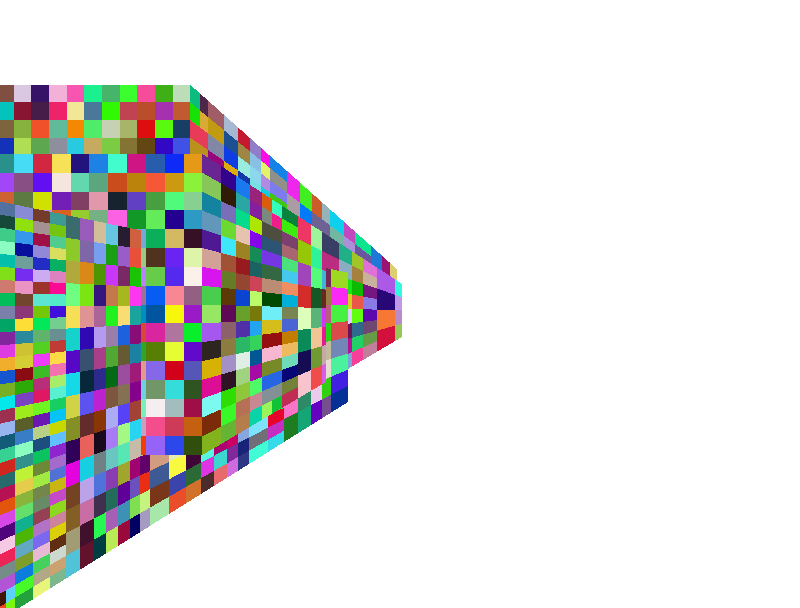
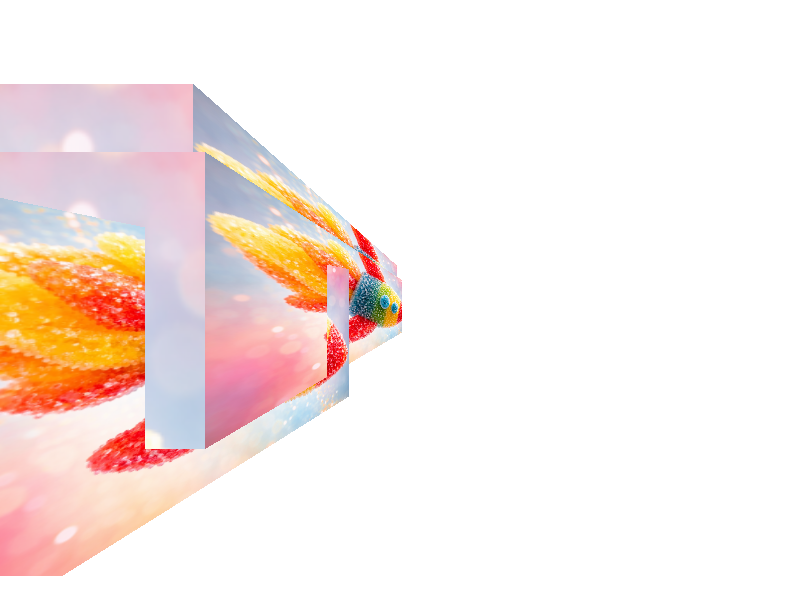
optimization BilinearPatch

Changed region(s): [[0.0, 0.12, 0.5, 1.0]]

diff --git a/bilinear_patch.go b/bilinear_patch.go
@@ -27,71 +27,26 @@ type BilinearPatch struct {
 	Color color.Color
 }
 
-func (bp *BilinearPatch) ProjectBBox(matrix mgl32.Mat4) (bound BoundBox) {
-	p1 := Project(bp.P00, mgl32.Ident4(), matrix, 0, 0, 800, 608)
-	p2 := Project(bp.P01, mgl32.Ident4(), matrix, 0, 0, 800, 608)
-	p3 := Project(bp.P10, mgl32.Ident4(), matrix, 0, 0, 800, 608)
-	p4 := Project(bp.P11, mgl32.Ident4(), matrix, 0, 0, 800, 608)
-
-	// p1 := matrix.Mul4x1(bp.P00.Vec4(1)).Vec3()
-	// p2 := matrix.Mul4x1(bp.P01.Vec4(1)).Vec3()
-	// p3 := matrix.Mul4x1(bp.P10.Vec4(1)).Vec3()
-	// p4 := matrix.Mul4x1(bp.P11.Vec4(1)).Vec3()
-
-	// matrix.Mul4x1(du0.Vec4(1)).Vec3()
-
-	bound.Min = mgl32.Vec3{
-		min(p1.X(), p2.X(), p3.X(), p4.X()),
-		min(p1.Y(), p2.Y(), p3.Y(), p4.Y()),
-		min(p1.Z(), p2.Z(), p3.Z(), p4.Z()),
-	}
-	bound.Max = mgl32.Vec3{
-		max(p1.X(), p2.X(), p3.X(), p4.X()),
-		max(p1.Y(), p2.Y(), p3.Y(), p4.Y()),
-		max(p1.Z(), p2.Z(), p3.Z(), p4.Z()),
-	}
-	return
+func (bp *BilinearPatch) Project(projectFunc func(mgl32.Vec3) mgl32.Vec3) BilinearPatch {
+	projectPach := *bp
+	projectPach.P00 = projectFunc(projectPach.P00)
+	projectPach.P01 = projectFunc(projectPach.P01)
+	projectPach.P10 = projectFunc(projectPach.P10)
+	projectPach.P11 = projectFunc(projectPach.P11)
+	return projectPach
 }
 
-func (bp *BilinearPatch) Split(matrix mgl32.Mat4, splitPaches *[]BilinearPatch) {
-	isNeedSplit, axis := bp.CanBySplit(matrix)
+func (bp *BilinearPatch) CanBySplit(lenEdgeMax float32) (canBySplit bool, axis SplitAxis) {
+	du0 := bp.P00.Sub(bp.P01).Vec2()
+	du1 := bp.P10.Sub(bp.P11).Vec2()
+	dv0 := bp.P01.Sub(bp.P11).Vec2()
+	dv1 := bp.P00.Sub(bp.P10).Vec2()
 
-	if !isNeedSplit {
-		*splitPaches = append(*splitPaches, *bp)
-		return
-	}
-
-	var p1, p2 BilinearPatch
-
-	switch axis {
-	case SplitAxisV:
-		p1 = bp.SubPatch(0.0, 0.5, 0.0, 1.0)
-		p2 = bp.SubPatch(0.5, 1.0, 0.0, 1.0)
-	case SplitAxisU:
-		p1 = bp.SubPatch(0.0, 1.0, 0.0, 0.5)
-		p2 = bp.SubPatch(0.0, 1.0, 0.5, 1.0)
-	}
-
-	p1.Split(matrix, splitPaches)
-	p2.Split(matrix, splitPaches)
-}
-
-func (bp *BilinearPatch) CanBySplit(matrix mgl32.Mat4) (canBySplit bool, axis SplitAxis) {
-	p00 := Project(bp.P00, mgl32.Ident4(), matrix, 0, 0, 800, 608)
-	p01 := Project(bp.P01, mgl32.Ident4(), matrix, 0, 0, 800, 608)
-	p10 := Project(bp.P10, mgl32.Ident4(), matrix, 0, 0, 800, 608)
-	p11 := Project(bp.P11, mgl32.Ident4(), matrix, 0, 0, 800, 608)
-
-	du0 := p00.Sub(p01)
-	du1 := p10.Sub(p11)
-	dv0 := p01.Sub(p11)
-	dv1 := p00.Sub(p10)
-
-	lenU2 := du0.LenSqr() + du1.LenSqr()
-	lenV2 := dv0.LenSqr() + dv1.LenSqr()
+	lenU2 := du0.Len() + du1.Len()
+	lenV2 := dv0.Len() + dv1.Len()
 	maxLen := max(lenU2, lenV2)
 
-	if maxLen < 1000^2 {
+	if maxLen < lenEdgeMax {
 		return false, SplitAxisNone
 	}
 
@@ -99,6 +54,17 @@ func (bp *BilinearPatch) CanBySplit(matrix mgl32.Mat4) (canBySplit bool, axis Sp
 		return true, SplitAxisU
 	}
 	return true, SplitAxisV
+}
+
+func (bp *BilinearPatch) SplitByAxis(axis SplitAxis) (BilinearPatch, BilinearPatch) {
+	switch axis {
+	case SplitAxisV:
+		return bp.SubPatch(0.0, 0.5, 0.0, 1.0), bp.SubPatch(0.5, 1.0, 0.0, 1.0)
+	case SplitAxisU:
+		return bp.SubPatch(0.0, 1.0, 0.0, 0.5), bp.SubPatch(0.0, 1.0, 0.5, 1.0)
+	default:
+		return *bp, *bp // TODO fix its potetional error
+	}
 }
 
 func edgeFunction2D(a, b mgl32.Vec3, x, y float32) float32 {
@@ -133,57 +99,6 @@ func (bp *BilinearPatch) SubPatch(uMin, uMax, vMin, vMax float32) BilinearPatch 
 		UV10: bp.EvaluateUV(uMax, vMin),
 		UV11: bp.EvaluateUV(uMax, vMax),
 	}
-}
-
-func (bp *BilinearPatch) SplitQuad(level int, uMin, uMax, vMin, vMax float32) []BilinearPatch {
-	if level <= 0 { // Мы возвращаем патч, который был вычислен на основе этих границ
-		return []BilinearPatch{{
-			P00:  bp.EvaluatePos(uMin, vMin),
-			P01:  bp.EvaluatePos(uMin, vMax),
-			P10:  bp.EvaluatePos(uMax, vMin),
-			P11:  bp.EvaluatePos(uMax, vMax),
-			UV00: bp.EvaluateUV(uMin, vMin),
-			UV01: bp.EvaluateUV(uMin, vMax),
-			UV10: bp.EvaluateUV(uMax, vMin),
-			UV11: bp.EvaluateUV(uMax, vMax),
-		}}
-	}
-
-	var subPatches []BilinearPatch
-	midU := (uMin + uMax) / 2.0
-	midV := (vMin + vMax) / 2.0
-
-	// Определяем 4 квадранта: {uStart, uEnd, vStart, vEnd}
-	quads := [4][4]float32{
-		{uMin, midU, vMin, midV}, // BL (P00)
-		{uMin, midU, midV, vMax}, // TL (P01)
-		{midU, uMax, vMin, midV}, // BR (P10)
-		{midU, uMax, midV, vMax}, // TR (P11)
-	}
-
-	for _, q := range quads {
-		u0, u1, v0, v1 := q[0], q[1], q[2], q[3]
-
-		// ВАЖНО: Мы создаем новый патч, вычисляя его углы через Evaluate
-		// используя параметры U и V.
-		// Это гарантирует, что геометрия будет идеально соответствовать текстуре!
-		// ВАЖНО: Мы создаем новый патч, вычисляя его углы через Evaluate
-		// используя параметры U и V.
-		// Это гарантирует, что геометрия будет идеально соответствовать текстуре!
-		// newPatch := BilinearPatch{
-		// 	P00: bp.Evaluate(u0, v0),
-		// 	P01: bp.Evaluate(u0, v1),
-		// 	P10: bp.Evaluate(u1, v0),
-		// 	P11: bp.Evaluate(u1, v1),
-		// 	U:   u0, // Сохраняем глобальный U для текстурирования
-		// 	V:   v0, // Сохраняем глобальный V для текстурирования
-		// }
-
-		// Рекурсия
-		subPatches = append(subPatches, bp.SplitQuad(level-1, u0, u1, v0, v1)...)
-	}
-
-	return subPatches
 }
 
 func (bq *BilinearPatch) inverseAffineQuad(sample Sample) (u, v float32) {

diff --git a/render.go b/render.go
@@ -5,7 +5,6 @@ import (
 	"image"
 	"image/color"
 	"image/png"
-	"math"
 	"math/rand"
 	"os"
 
@@ -19,6 +18,7 @@ type Render struct {
 	backetCountX int
 	backetCountY int
 	projecMatrix mgl32.Mat4
+	projectFunc  func(mgl32.Vec3) mgl32.Vec3
 }
 
 func (render *Render) SetProject(matrix mgl32.Mat4) {
@@ -35,7 +35,9 @@ func NewRender(width, height, backetSize int) (render *Render) {
 	render.backetCountX = backetCountX
 	render.backetCountY = backetCountY
 	render.backets = make([]Backet, backetCount)
-
+	render.projectFunc = func(v mgl32.Vec3) mgl32.Vec3 {
+		return Project(v, mgl32.Ident4(), render.projecMatrix, 0, 0, width, height)
+	}
 	for x := 0; x < backetCountX; x++ {
 		for y := 0; y < backetCountY; y++ {
 			backetIndex := x + y*backetCountX
@@ -48,60 +50,50 @@ func NewRender(width, height, backetSize int) (render *Render) {
 	return
 }
 
-func (render *Render) Draw(patches []BilinearPatch) {
-	fbBound := render.Framebuffer.Bounds()
-	windowBB := BoundBox{
-		Min: mgl32.Vec3{float32(fbBound.Min.X), float32(fbBound.Min.Y), 0},
-		Max: mgl32.Vec3{float32(fbBound.Max.X), float32(fbBound.Max.Y), 1.0},
-	}
-	fmt.Printf("All patches len: %d\n", len(patches))
-	for _, patch := range patches {
-		bbox := patch.ProjectBBox(render.projecMatrix)
-		if !windowBB.Intersects(bbox) {
+func (render *Render) SplitByBacket(backet *Backet, patches []BilinearPatch) {
+	backetBB := backet.toBoundBox()
+	for _, bigPatch := range patches {
+		bigPatchProjected := bigPatch.Project(render.projectFunc)
+		bigPatchBBox := bigPatchProjected.toBoundBox()
+		if !backetBB.Intersects(bigPatchBBox) {
 			continue
 		}
 
-		splitedPaches := make([]BilinearPatch, 0, 200)
+		patchStack := Stack[BilinearPatch]{}
+		patchStack.Push(bigPatch)
 
-		patch.Split(render.projecMatrix, &splitedPaches)
-		fmt.Printf("Patch splited len: %d\n", len(splitedPaches))
-		for _, splitedPatch := range splitedPaches {
-			bboxToBacket := splitedPatch.ProjectBBox(render.projecMatrix)
-			colorddd := color.RGBA{uint8(rand.Int31n(255)), uint8(rand.Int31n(255)), uint8(rand.Int31n(255)), 255}
-			splitedPatch.Color = colorddd
-			startBacketX := int(math.Floor(float64(bboxToBacket.Min.X() / float32(render.backetDim))))
-			startBacketY := int(math.Floor(float64(bboxToBacket.Min.Y() / float32(render.backetDim))))
-
-			startBacketX = max(startBacketX, 0)
-			startBacketY = max(startBacketY, 0)
-
-			endBacketX := int(math.Ceil(float64(bboxToBacket.Max.X() / float32(render.backetDim))))
-			endBacketY := int(math.Ceil(float64(bboxToBacket.Max.Y() / float32(render.backetDim))))
-
-			endBacketX = min(endBacketX, render.backetCountX)
-			endBacketY = min(endBacketY, render.backetCountY)
-
-			splitedPatch.P00 = Project(splitedPatch.P00, mgl32.Ident4(), render.projecMatrix, 0, 0, 800, 608)
-			splitedPatch.P01 = Project(splitedPatch.P01, mgl32.Ident4(), render.projecMatrix, 0, 0, 800, 608)
-			splitedPatch.P10 = Project(splitedPatch.P10, mgl32.Ident4(), render.projecMatrix, 0, 0, 800, 608)
-			splitedPatch.P11 = Project(splitedPatch.P11, mgl32.Ident4(), render.projecMatrix, 0, 0, 800, 608)
-
-			for backetX := startBacketX; backetX < endBacketX; backetX++ {
-				for backetY := startBacketY; backetY < endBacketY; backetY++ {
-
-					render.backets[backetX+backetY*render.backetCountX].appPrimitive(splitedPatch)
-				}
+		for patchStack.Size() > 0 {
+			patchToRaster, _ := patchStack.Pop()
+			patchToRasterProjected := patchToRaster.Project(render.projectFunc)
+			patchToRasterBBox := patchToRasterProjected.toBoundBox()
+			if !backetBB.Intersects(patchToRasterBBox) {
+				continue
 			}
-			// for i := range render.backets {
-			// 	render.backets[i].appPrimitive(splitedPatch)
-			// }
+			canBySplit, axis := patchToRasterProjected.CanBySplit(10)
+
+			if canBySplit {
+				newPatch1, newPatch2 := patchToRaster.SplitByAxis(axis)
+				patchStack.Push(newPatch1)
+				patchStack.Push(newPatch2)
+				continue
+			}
+
+			patchToRasterProjected.Color = color.RGBA{uint8(rand.Int31n(255)), uint8(rand.Int31n(255)), uint8(rand.Int31n(255)), 255}
+			backet.appPrimitive(patchToRasterProjected)
 		}
 	}
-	// render.backets[0].Draw()
+}
+
+func (render *Render) Draw(patches []BilinearPatch) {
+	fmt.Printf("All patches len: %d\n", len(patches))
+
+	for index := range render.backets {
+		render.SplitByBacket(&render.backets[index], patches)
+	}
+
 	for _, backet := range render.backets {
 		backet.Draw()
 	}
-
 }
 
 func (render *Render) save(filepath string) {

diff --git a/backet.go b/backet.go
@@ -5,6 +5,8 @@ import (
 	"image"
 	"image/color"
 	_ "image/png" // для поддержки PNG
+
+	"github.com/go-gl/mathgl/mgl32"
 	// "math"
 	// "math/rand"
 )
@@ -20,6 +22,12 @@ type Backet struct {
 	StartX, StartY int
 	ColorImage     SubImage
 	Primitives     []BilinearPatch
+}
+
+func (backet *Backet) toBoundBox() (bound BoundBox) {
+	bound.Min = mgl32.Vec3{float32(backet.StartX), float32(backet.StartY), 0}
+	bound.Max = mgl32.Vec3{float32(backet.StartX + backet.SizeX), float32(backet.StartY + backet.SizeY), 1}
+	return
 }
 
 func (backet *Backet) init(startX, startY, sizeX, sizeY int, imageSrc image.Image) {
@@ -49,13 +57,6 @@ func (backet *Backet) Draw() {
 		fmt.Printf("Backet len: %d\n", len(backet.Primitives))
 	}
 
-	// colorddd := color.RGBA{uint8(rand.Int31n(255)), 255, 0, 255}
-	// for x := 0; x < backet.SizeX; x++ {
-	// 	for y := 0; y < backet.SizeY; y++ {
-	// 		backet.ColorImage.Set(x+backet.StartX, y+backet.StartY, colorddd)
-	// 	}
-	// }
-	// return
 	for _, patch := range backet.Primitives {
 		// bbox := patch.toBoundBox()
 		// startX := int(max(math.Floor(float64(bbox.Min.X())), float64(backet.StartX)))
@@ -82,10 +83,10 @@ func (backet *Backet) Draw() {
 					continue
 				}
 				backet.zBuffer[zX+yZ*backet.SizeX] = vpos.Z()
-				// resultUV := patch.EvaluateUV(uLocal, vLocal)
-				// pixelColor := SampleBilinear(rocketTexture, resultUV.X(), resultUV.Y())
-				// backet.ColorImage.Set(x, y, color.RGBA{255, 0, 0, 255})
-				backet.ColorImage.Set(x, y, patch.Color)
+				resultUV := patch.EvaluateUV(uLocal, vLocal)
+				pixelColor := SampleBilinear(rocketTexture, resultUV.X(), resultUV.Y())
+				backet.ColorImage.Set(x, y, pixelColor)
+				// backet.ColorImage.Set(x, y, patch.Color)
 			}
 		}
 	}

diff --git a/stack.go b/stack.go
@@ -1,0 +1,32 @@
+package main
+
+type Stack[T any] struct {
+	elements []T
+}
+
+func (s *Stack[T]) Push(value T) {
+	s.elements = append(s.elements, value)
+}
+
+func (s *Stack[T]) Pop() (T, bool) {
+	if len(s.elements) == 0 {
+		var zero T
+		return zero, false
+	}
+	index := len(s.elements) - 1
+	element := s.elements[index]
+	s.elements = s.elements[:index]
+	return element, true
+}
+
+func (s *Stack[T]) Peek() (T, bool) {
+	if len(s.elements) == 0 {
+		var zero T
+		return zero, false
+	}
+	return s.elements[len(s.elements)-1], true
+}
+
+func (s *Stack[T]) Size() int {
+	return len(s.elements)
+}

diff --git a/main.go b/main.go
@@ -100,7 +100,7 @@ func main() {
 
 	model, err := LoadObj("models/cube.obj")
 
-	width, height := 800, 608
+	width, height := 800, 600
 
 	fovyRad := mgl32.DegToRad(60)
 	proj := PerspectiveZO(fovyRad, float32(width)/float32(height), 0.1, 20)
